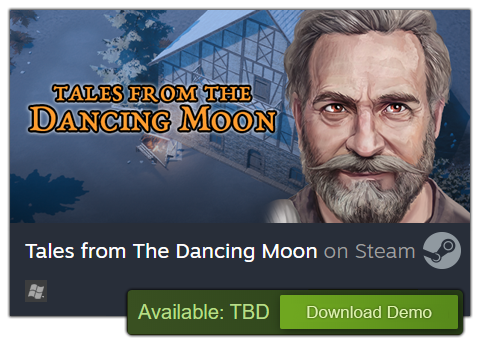
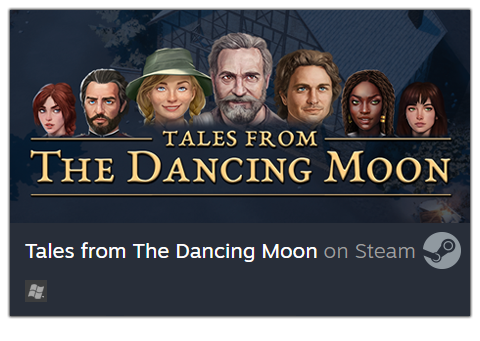
updated indiegame description

diff --git a/README.md b/README.md
@@ -120,7 +120,13 @@ The obj file name should reflect the name of the part in-game.
 
 Created and maintained by DjMonkey (<a href="http://www.twitter.com/DancingMoonGame" target="_blank">@DancingMoonGame</a>)
 
-If you would like to support me, I am currently working on my own indie video game. There is a <a href="https://store.steampowered.com/app/1782420/Tales_from_The_Dancing_Moon/" target="_blank">free demo on Steam</a> and it would mean the world to if you gave it a try!
+If you have enjoyed using my tools, consider playing my very own indie game! It is the best way you can support me!
+
+'Tales from the Dancing Moon' is a life-sim RPG set in a parallel universe inspired by UK culture and fantasy novels. After the events of a shadow-beast invasion on a seaside town, complete villager quests and collect hidden diaries to understand your role in this mysterious character-driven story.
+
+There is a <a href="https://store.steampowered.com/app/1782420/Tales_from_The_Dancing_Moon/" target="_blank">FREE demo</a> and an Early Access version. You would help me a lot by either wishlisting it, trying it out, or even sharing it with your friends!
+
+Click the image below to be taken to the Steam page!
 
 <p align="center">
   <a href="https://store.steampowered.com/app/1782420/Tales_from_The_Dancing_Moon/" target="_blank"><img src="https://raw.githubusercontent.com/djmonkeyuk/nms-base-builder/master/images/SteamDemoBanner.png" alt="Tales from The Dancing Moon Steam Store Page" width="50%"></a>
